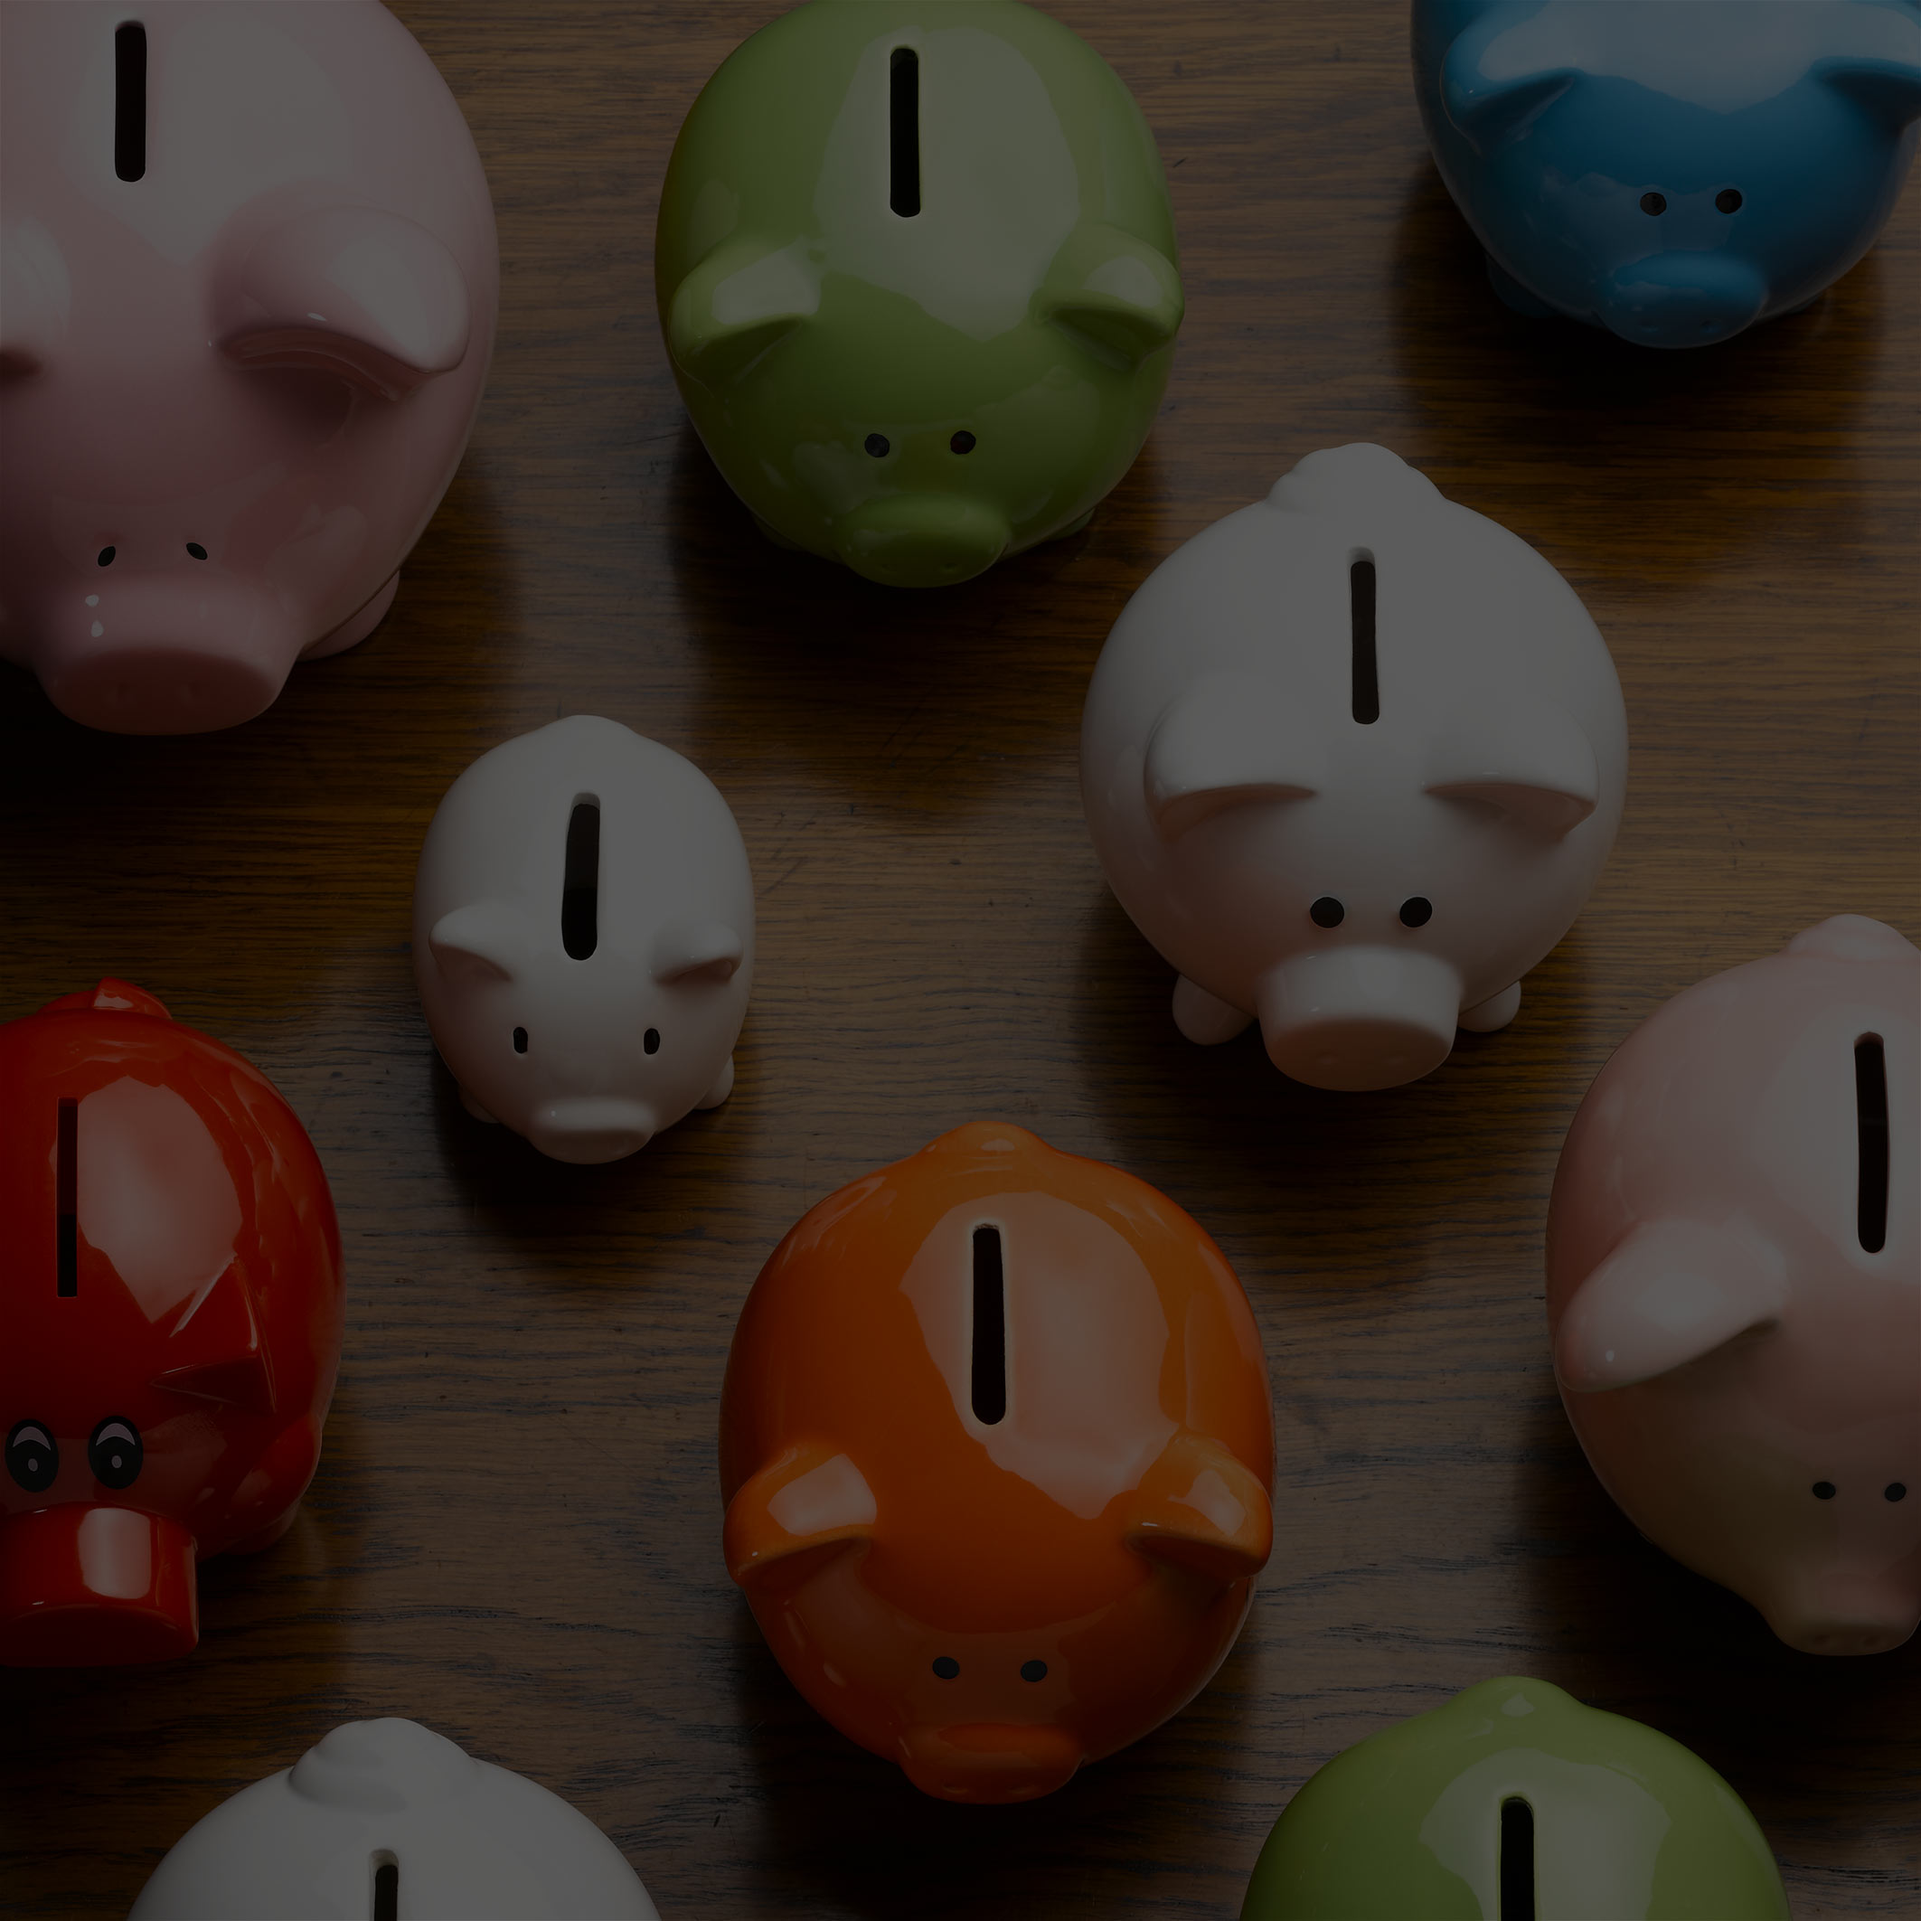
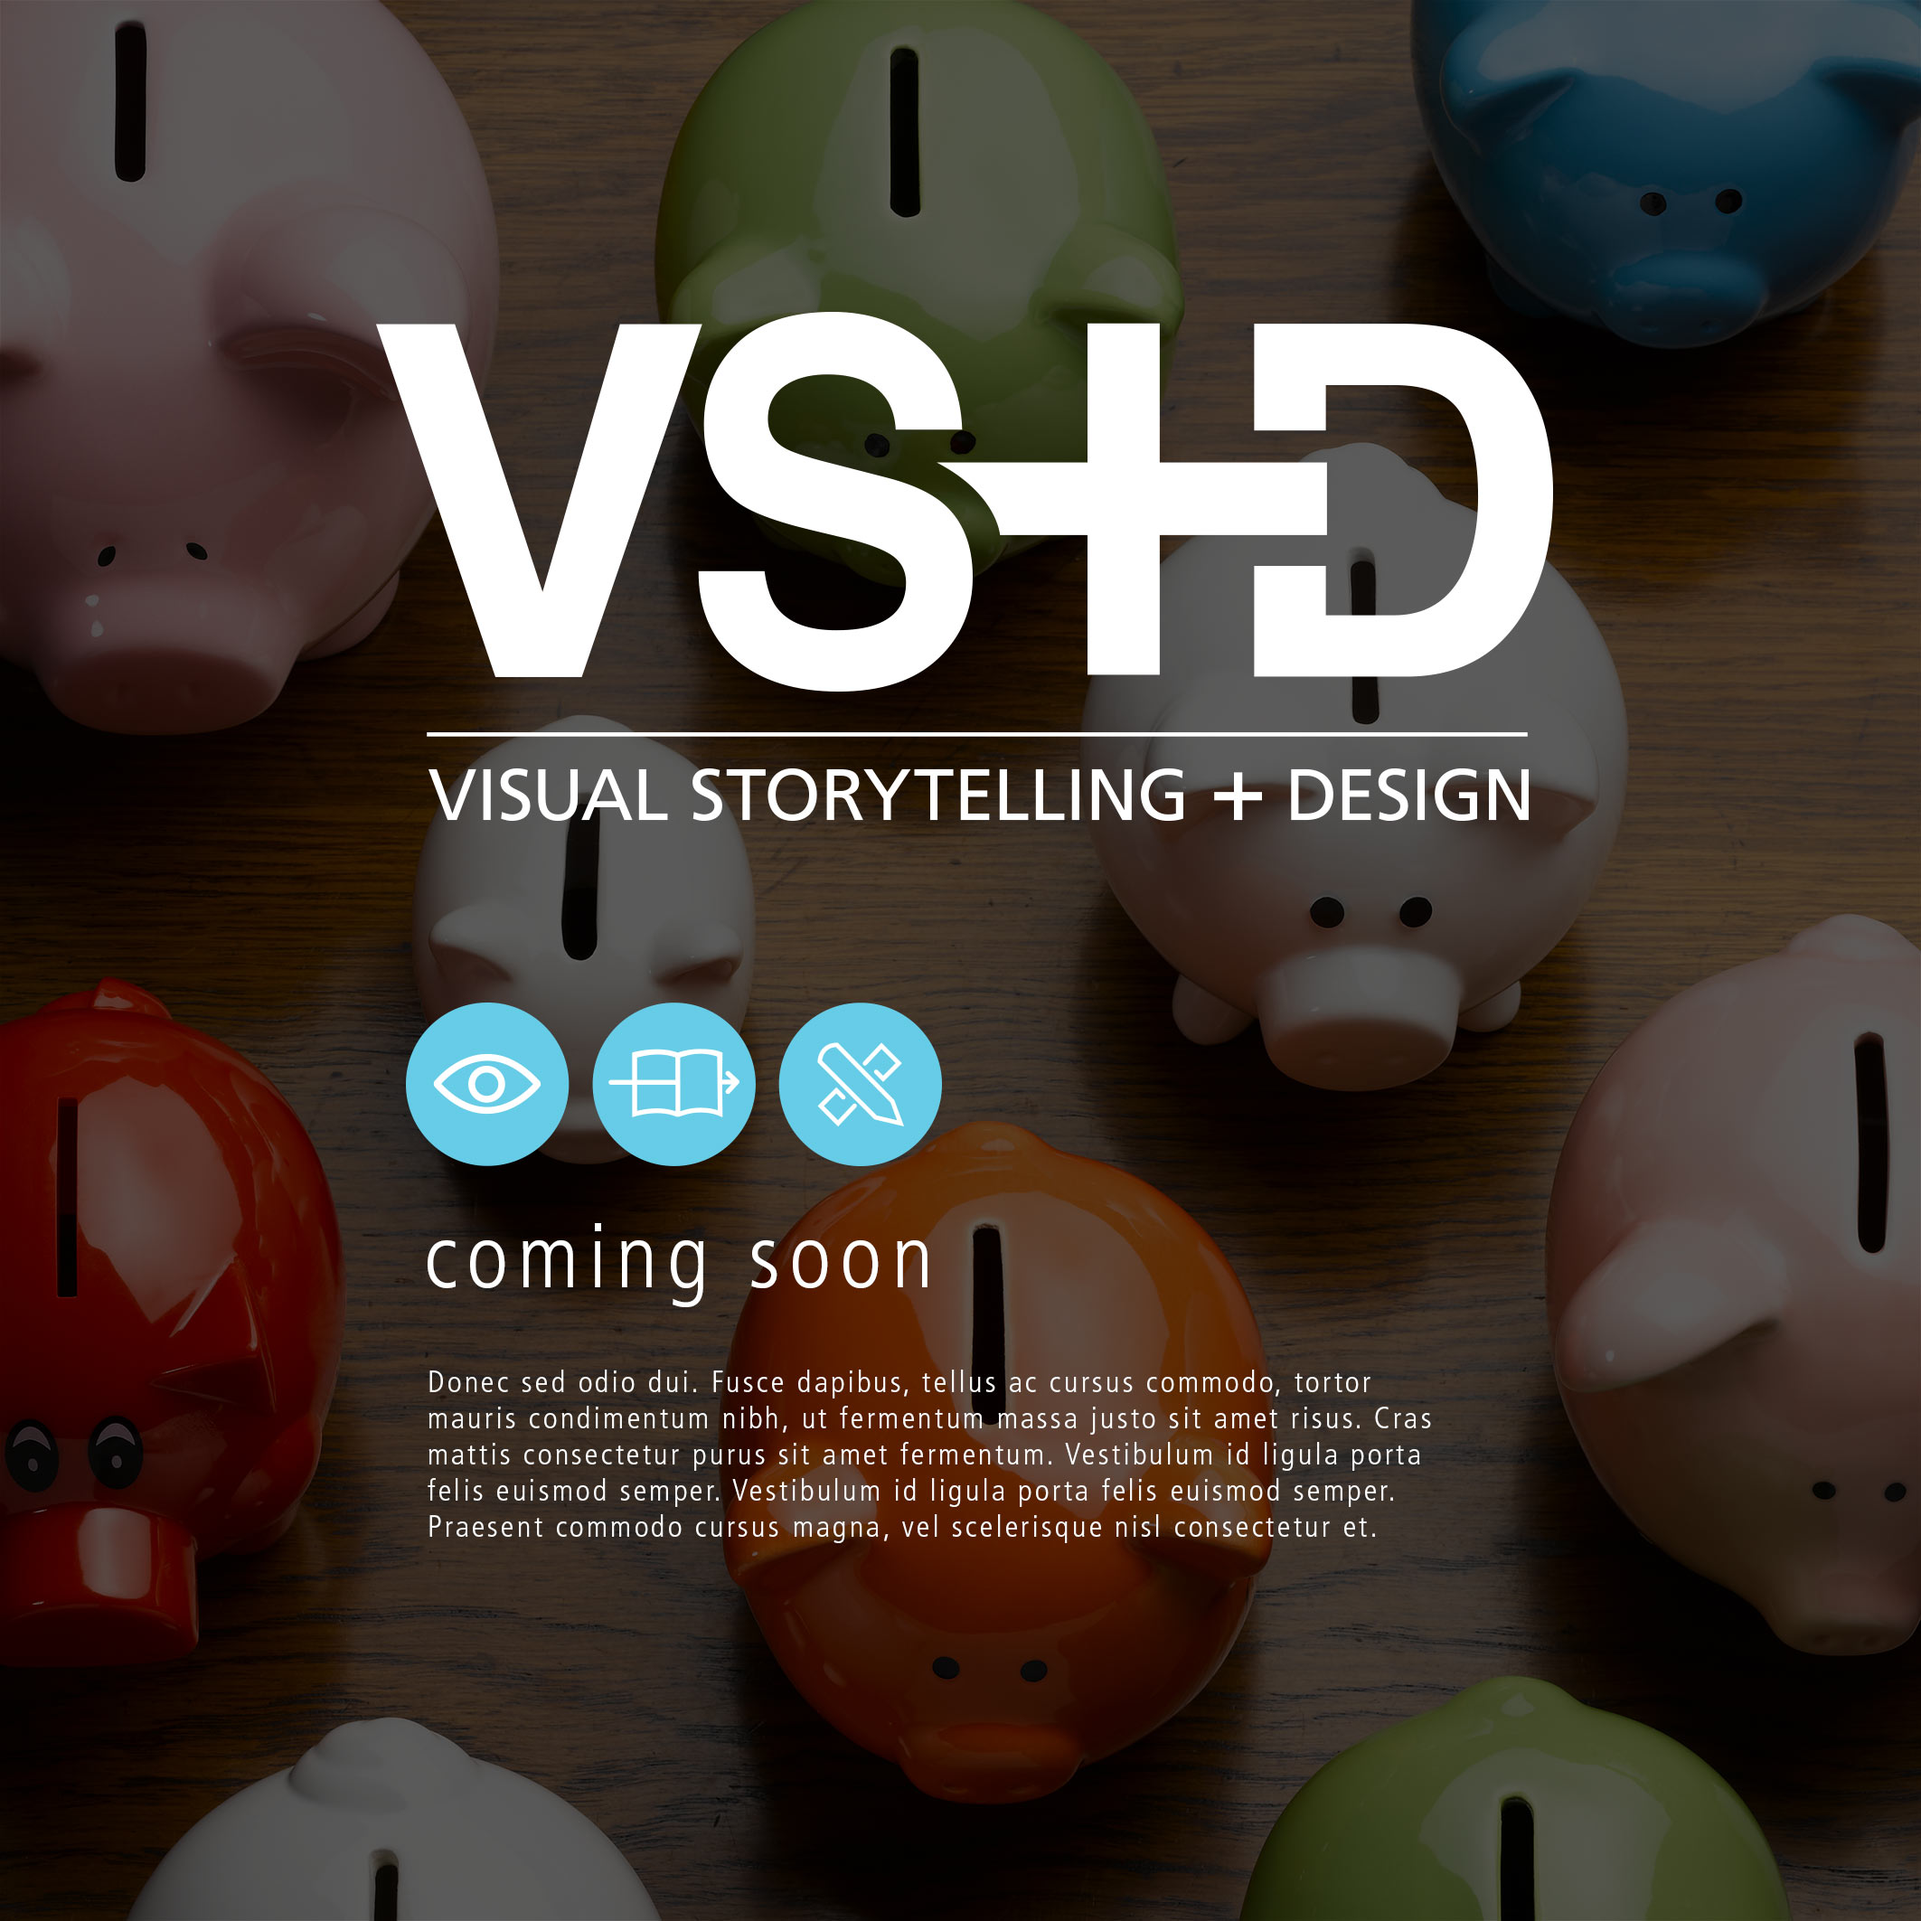
second iteration with separate elements

diff --git a/index.html b/index.html
@@ -8,10 +8,10 @@
 </head>
 <body>
 	<div class="welcome">
-		<img src="img/logo.svg" alt="" class="logo">
+		<img src="img/logo.png" class="logo">
 	</div>
 	<div class="icons">
-		<img src="img/branding_icons.svg" alt="">
+		<img src="img/branding_icons.png">
 	</div>
 	<div class="copy">
 		<h1>coming soon</h1>

diff --git a/style.css b/style.css
@@ -29,6 +29,7 @@ body {
 }
 .icons img {
 	max-width: 50%;
+	max-height: 50%;
 }
 .copy {
 	width: 60%;
